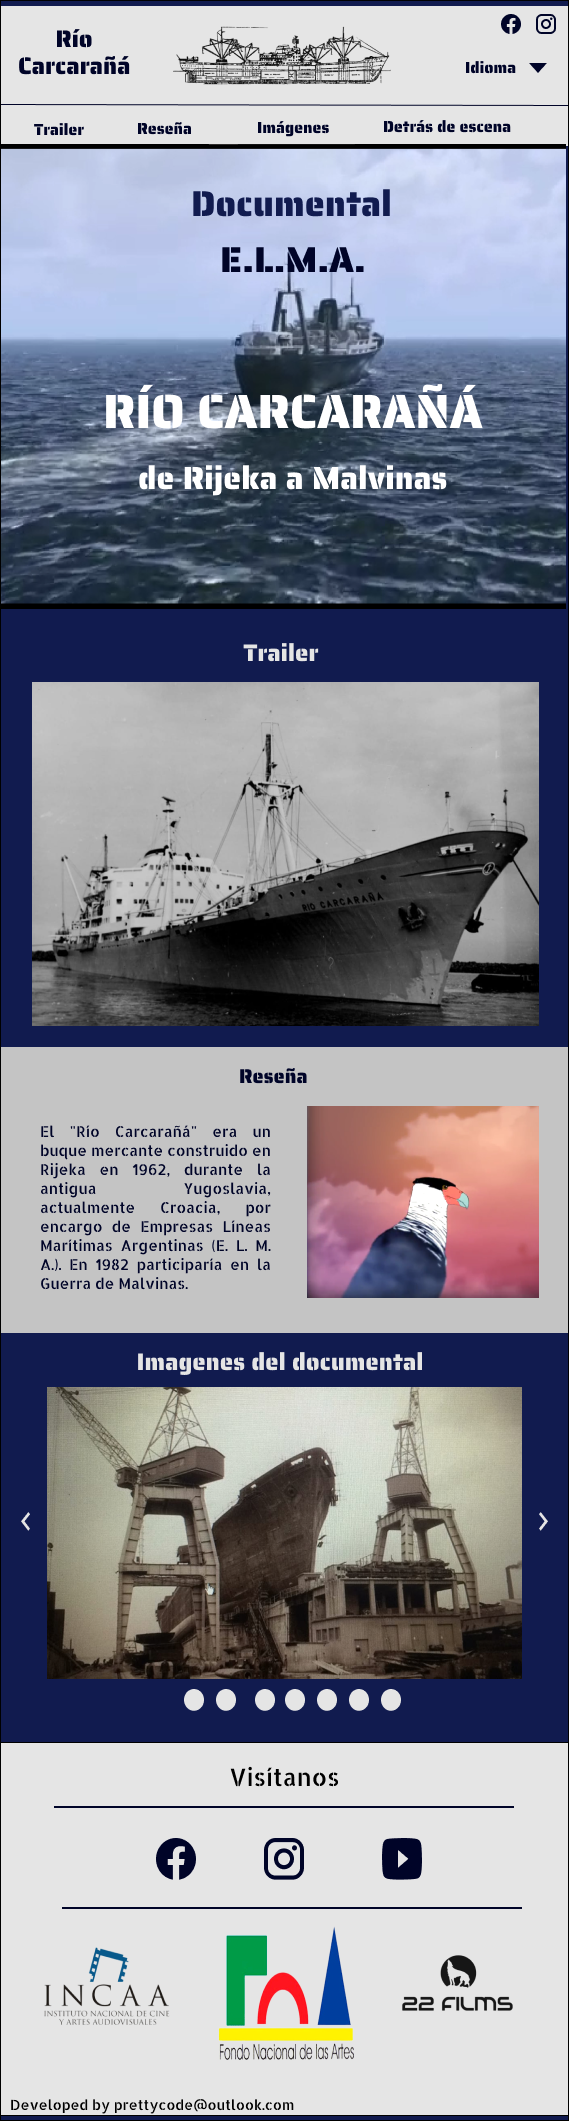
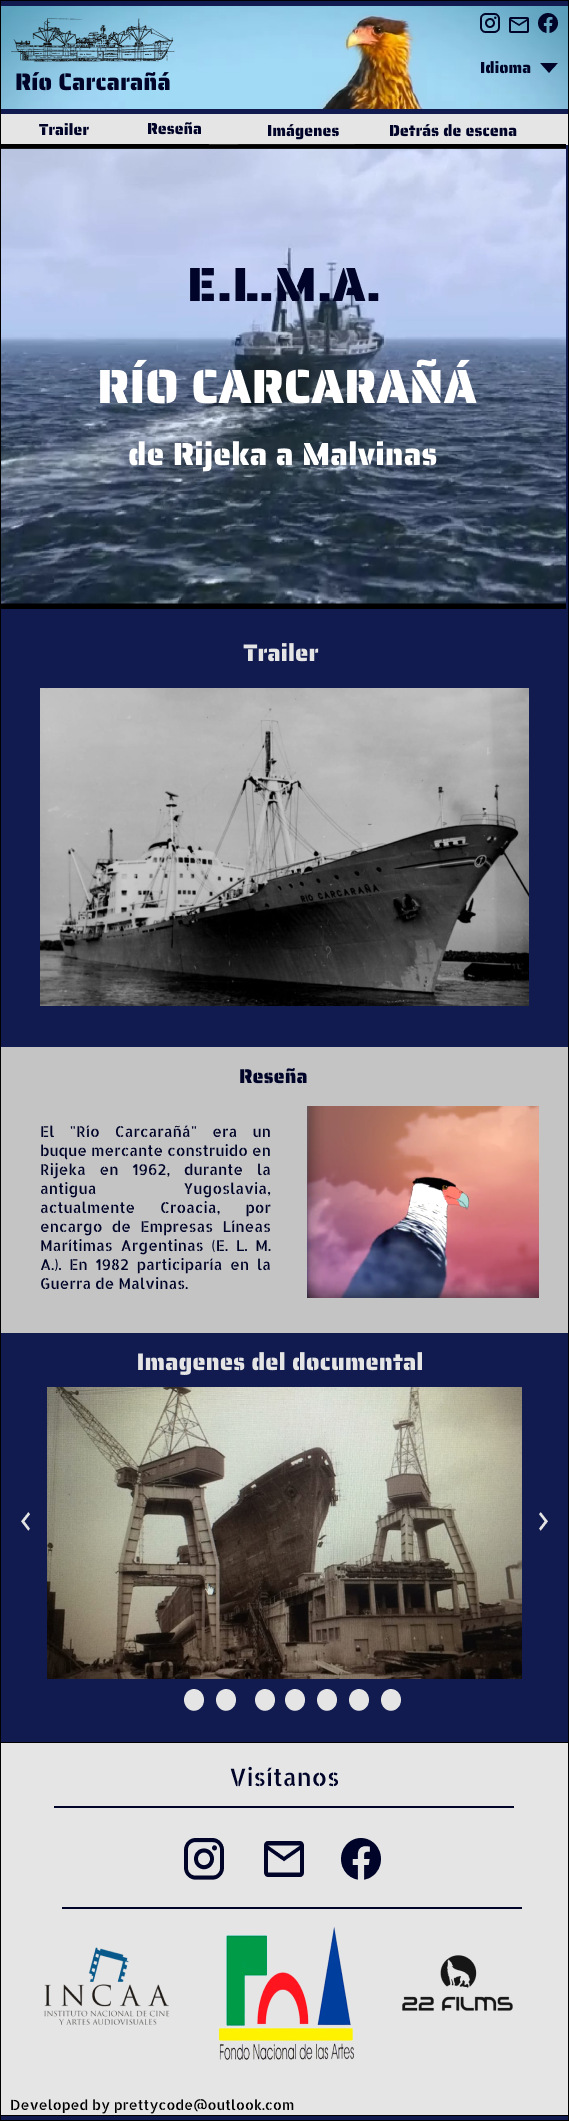
modified header-ejs

diff --git a/public/css/home.css b/public/css/home.css
@@ -111,10 +111,7 @@ heigth="315"  */
 }
 
 .body-home .reseñaContainer img.imgReseña {
-    display: flex;   /* ------------------------- */
-    /* text-align: center; 
-    align-items: center; */
-    /* margin: 0 auto; */
+    display: flex;   
     width: 300px;
     height: 200px;
 }

diff --git a/public/css/header.css b/public/css/header.css
@@ -1,8 +1,9 @@
-/* header{
-  width:100% vh;
-  height: 150px;
-  background-color:var(--color-grisaseo)
+/* header {
+    width:100% vh;
+    height: 150px;
+    background-color:var(--color-green)
 }
+
 .header.flex {
   background-color: var(--color-grisaseo);
   position: relative;
